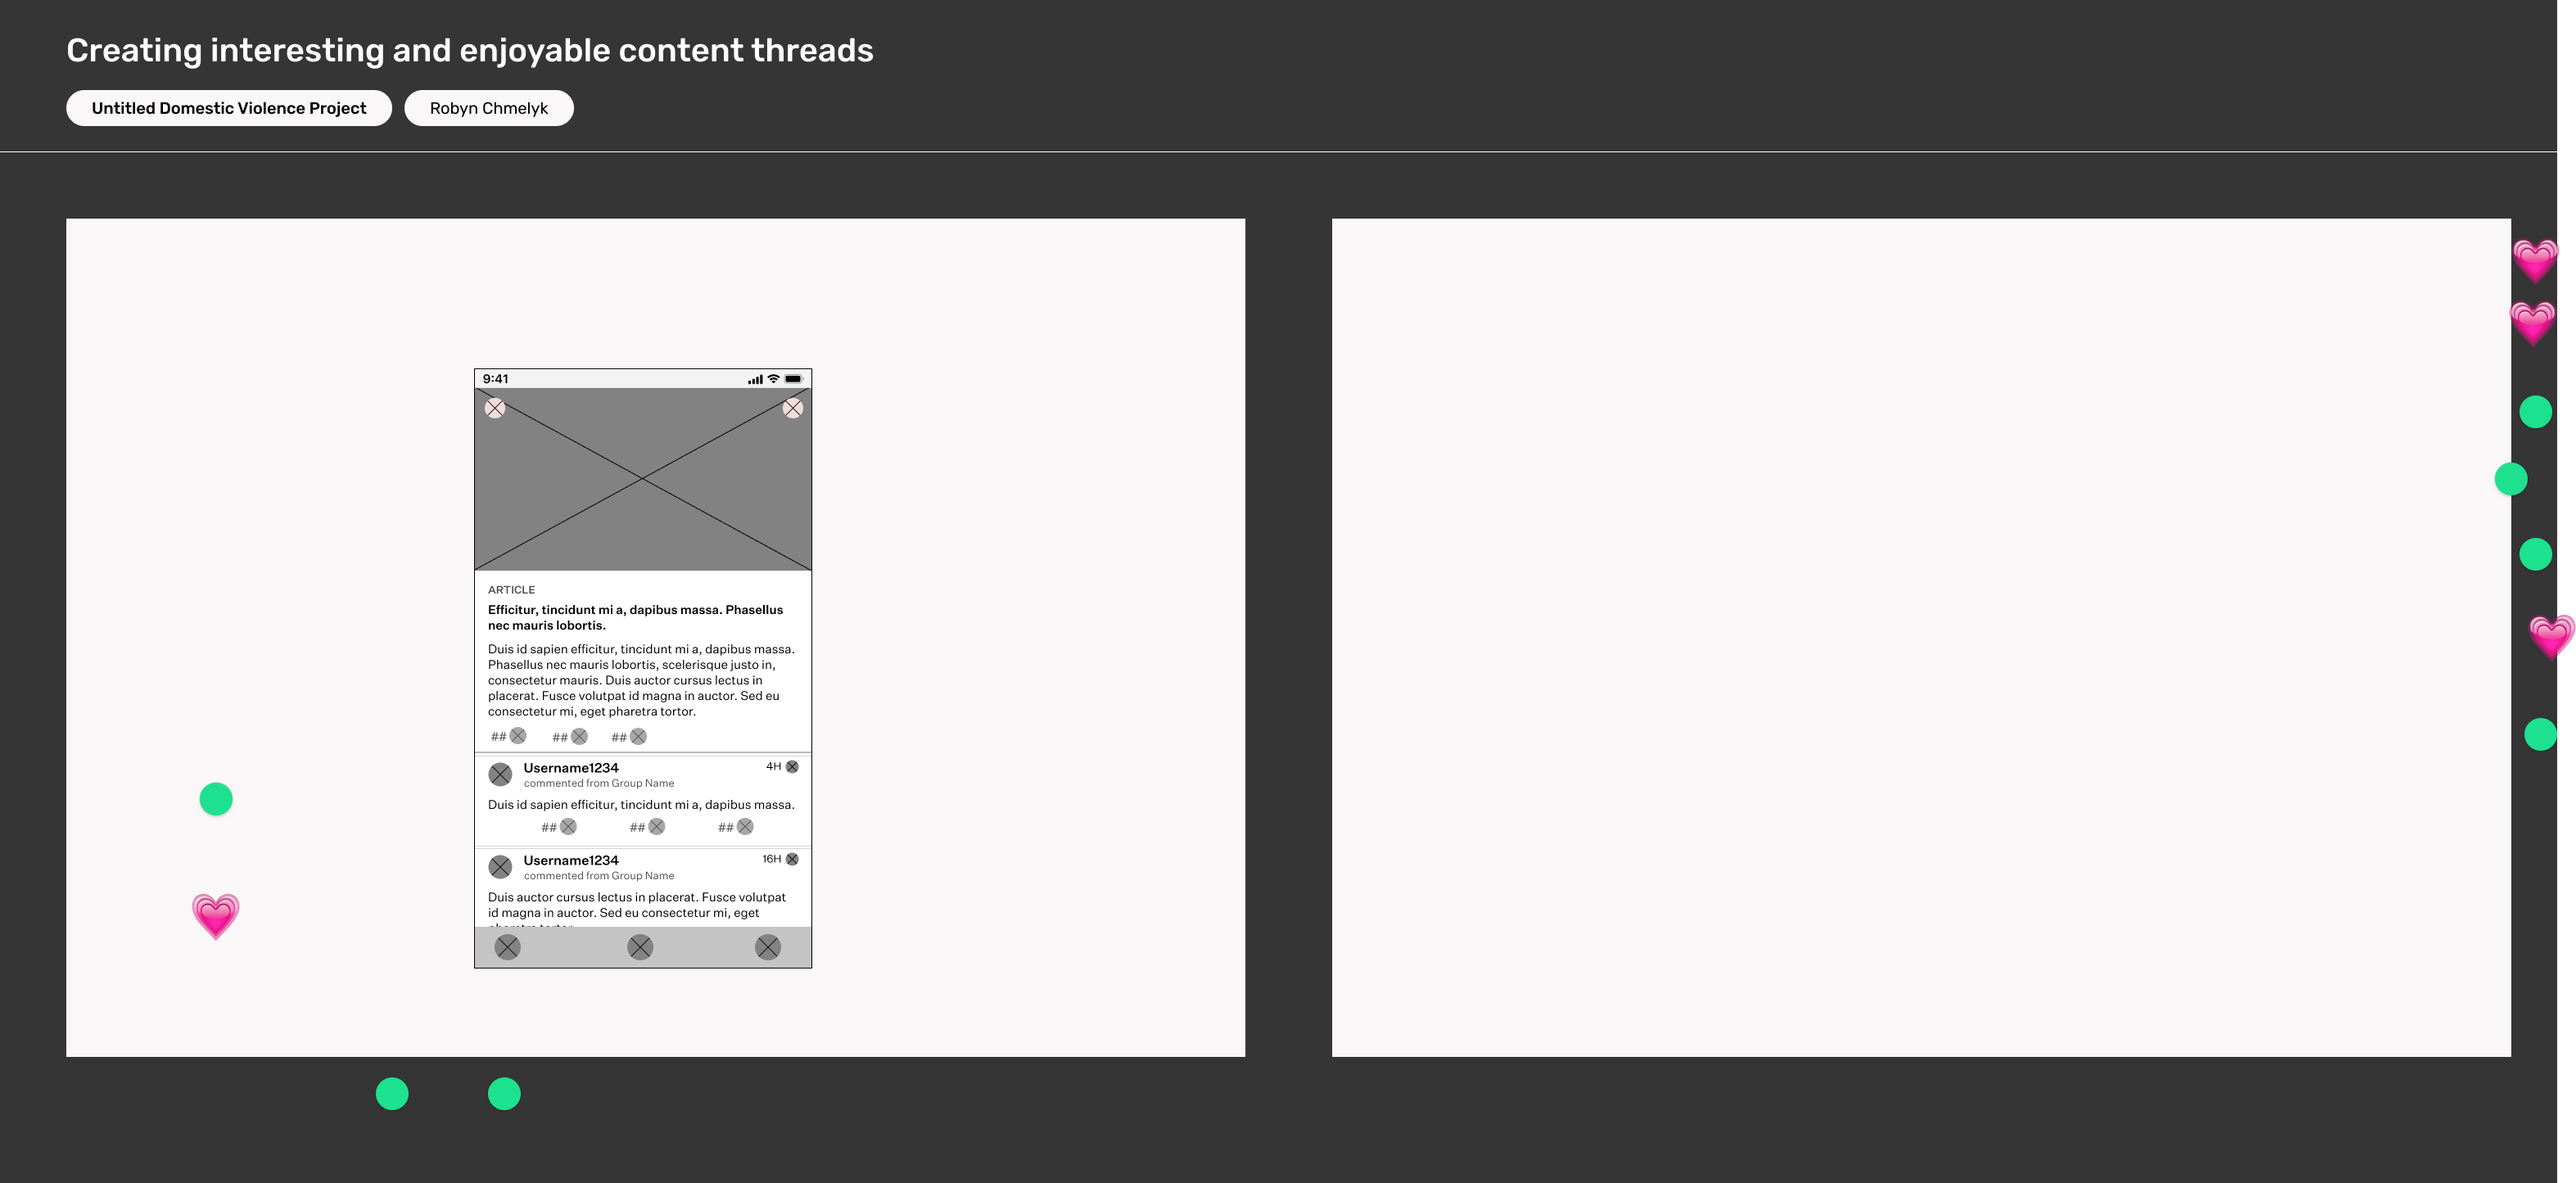
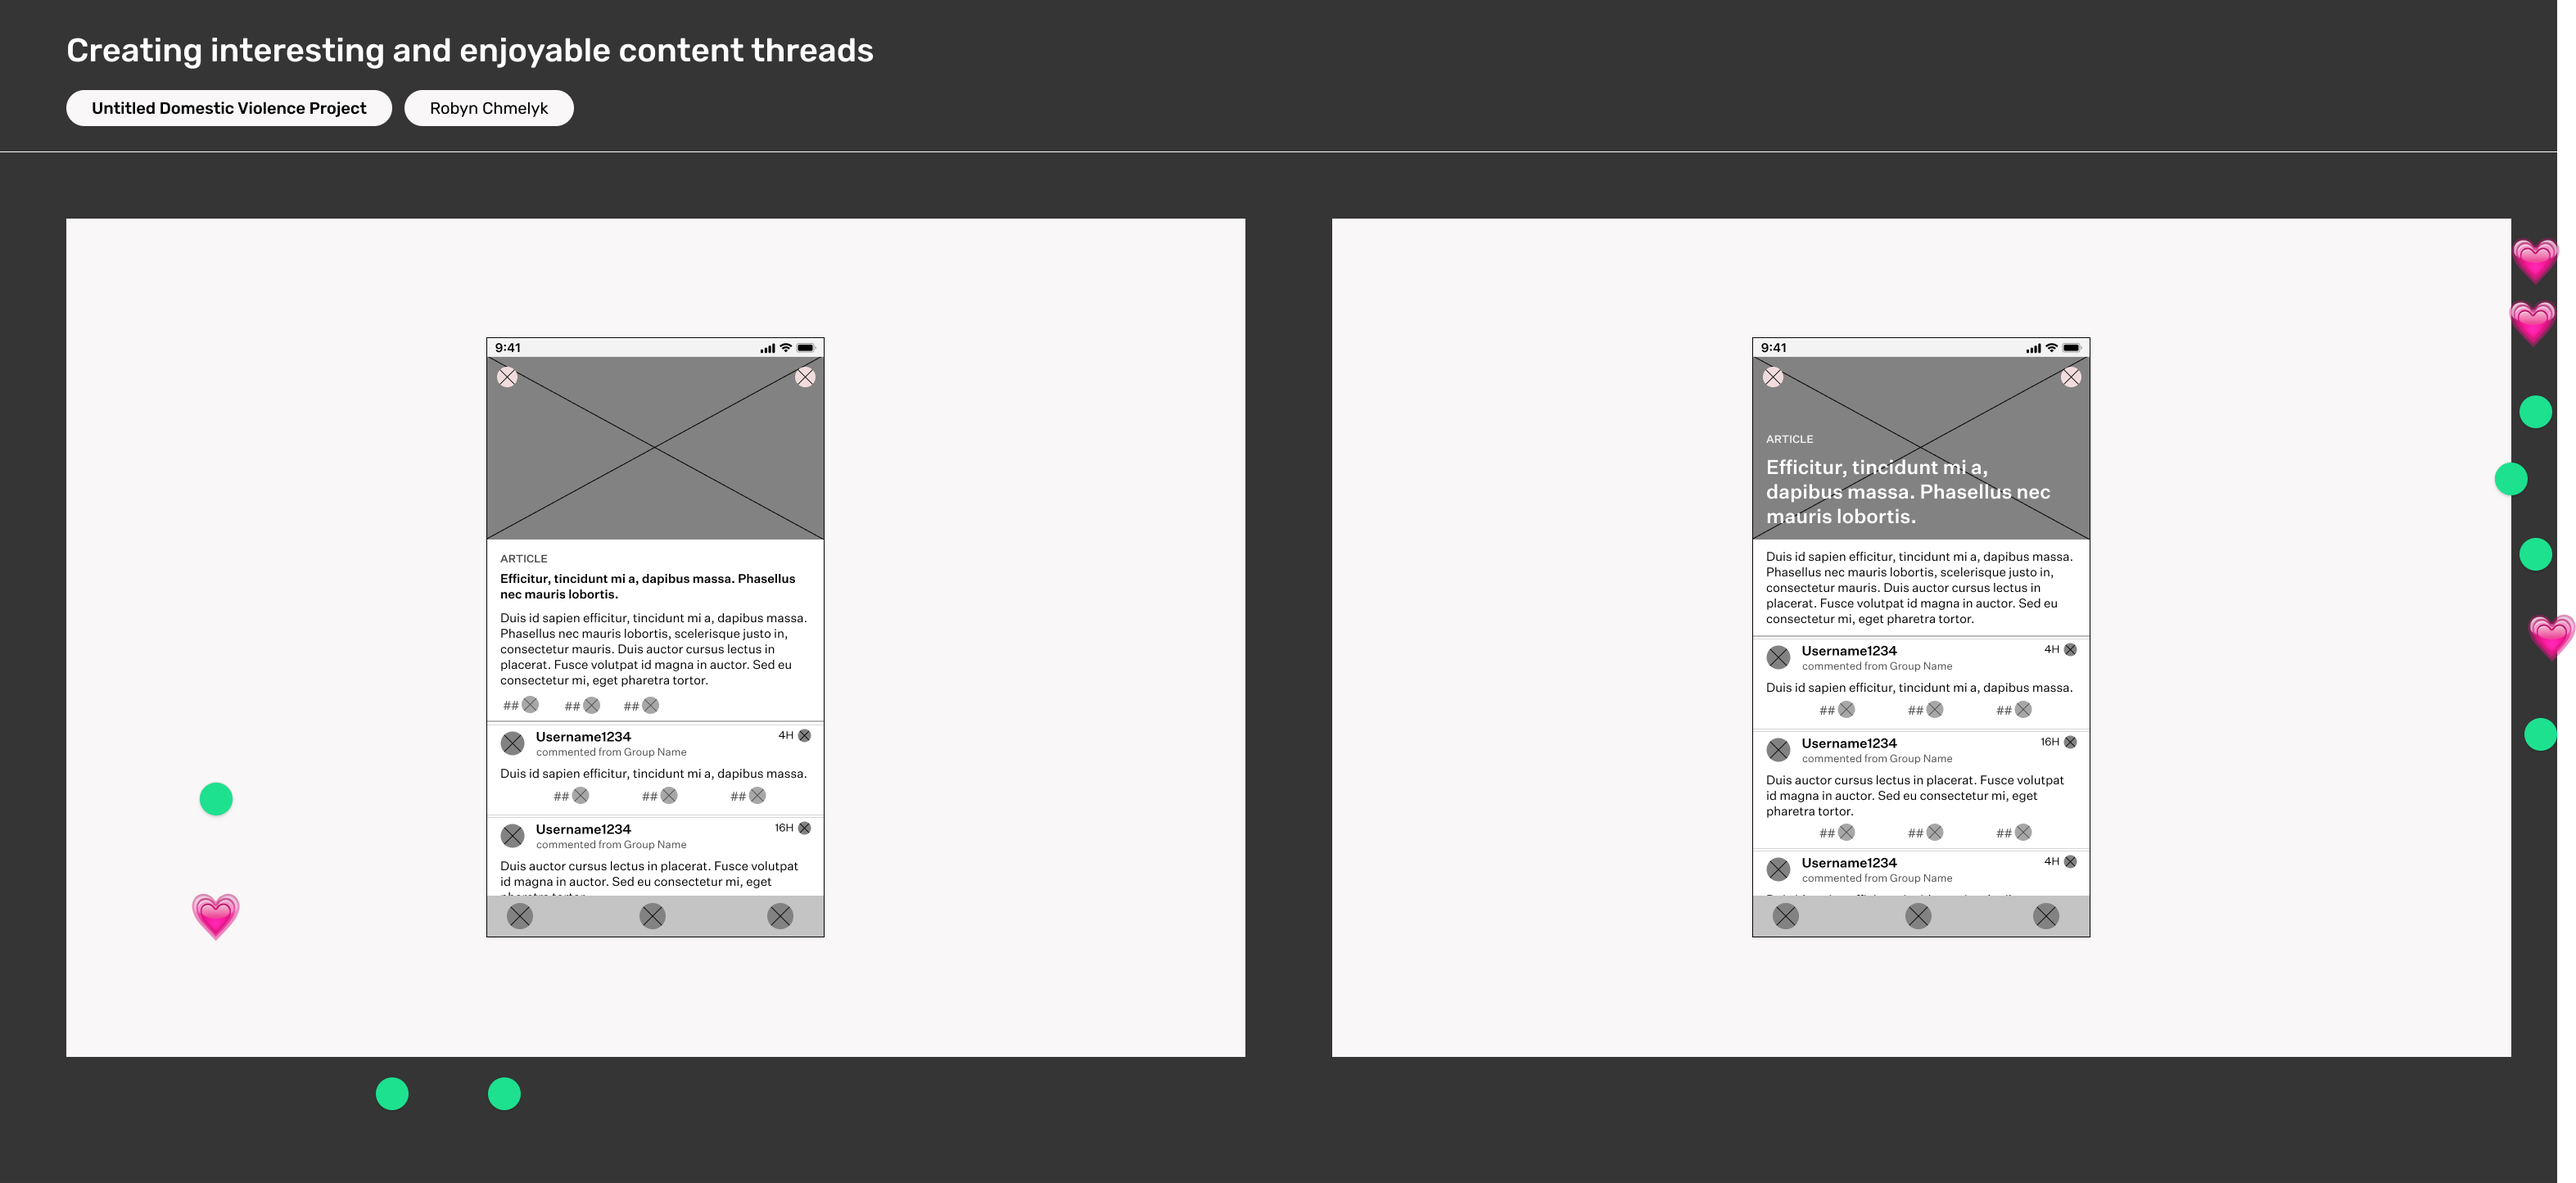
x

Changed region(s): [[0.1869, 0.2803, 0.3427, 0.8408], [0.6542, 0.2803, 0.8099, 0.8097], [0.7788, 0.5294, 0.8099, 0.5606]]

diff --git a/ysdn4003.html b/ysdn4003.html
@@ -588,8 +588,28 @@
     </div>
   </div>
 
-  <div class="row business-objectives margin-bottom beo-grey-section">
+  <div class="row margin-bottom heyyoublue">
     <div class="col-xs-12 col-md-2 col-lg-offset-1">
+      <h4 class="section-title beo-green">
+      </h4>
+    </div>
+    <div class="col-xs-12 col-md-8 col-lg-6">
+      <h3 class="project-large-text">
+        </h3>
+      <p class="project-description-text bottom-margin">
+
+          </p>
+    </div>
+
+    <div class="row heyyoublue">
+      <div class="col-xs-12 center-xs start-md">
+        <img class="img--landscape" src="images/heyyou-midfi.jpg" alt="Style guide for the app">
+      </div>
+    </div>
+  </div>
+
+  <div class="row business-objectives">
+    <div class="col-xs-12 col-md-2 col-lg-offset-1 business-objectives">
       <h4 class="section-title beo-green">
       </h4>
     </div>
@@ -600,12 +620,6 @@
       <p class="project-description-text bottom-margin">
         We did some initial preference testing with the mid-fidelity wireframes.
       </p>
-    </div>
-
-    <div class="row heyyoublue">
-      <div class="col-xs-12 center-xs start-md">
-        <img class="img--landscape" src="images/heyyou-midfi.jpg" alt="Style guide for the app">
-      </div>
     </div>
 
     <div class="col-xs-12 col-md-10 col-md-offset-1 top-margin">
